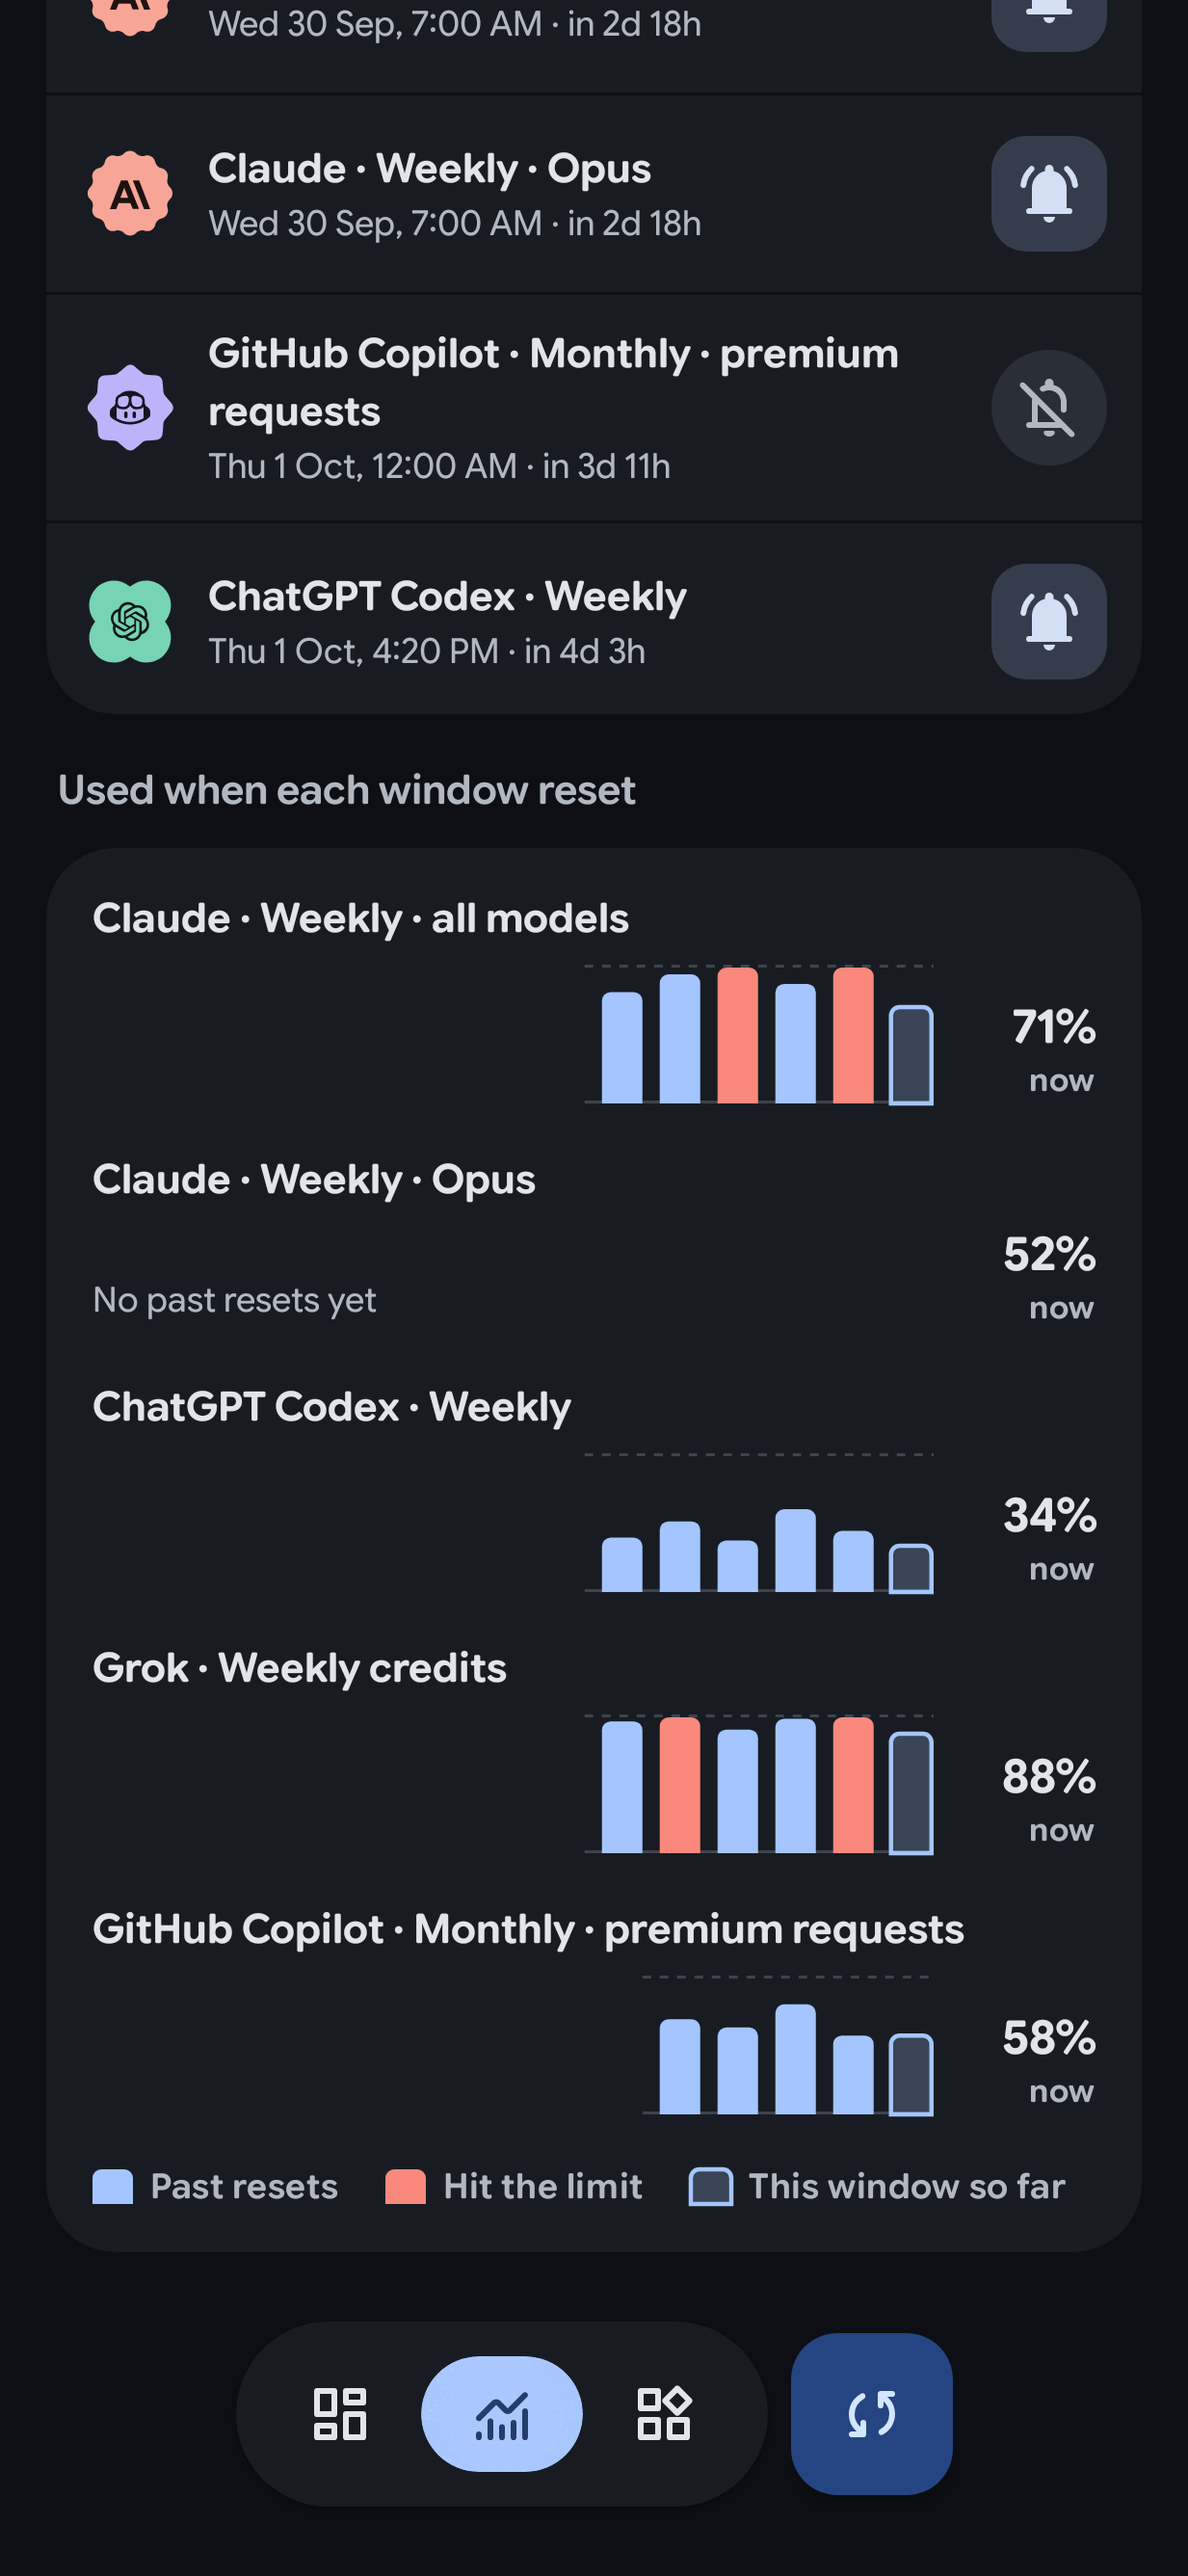
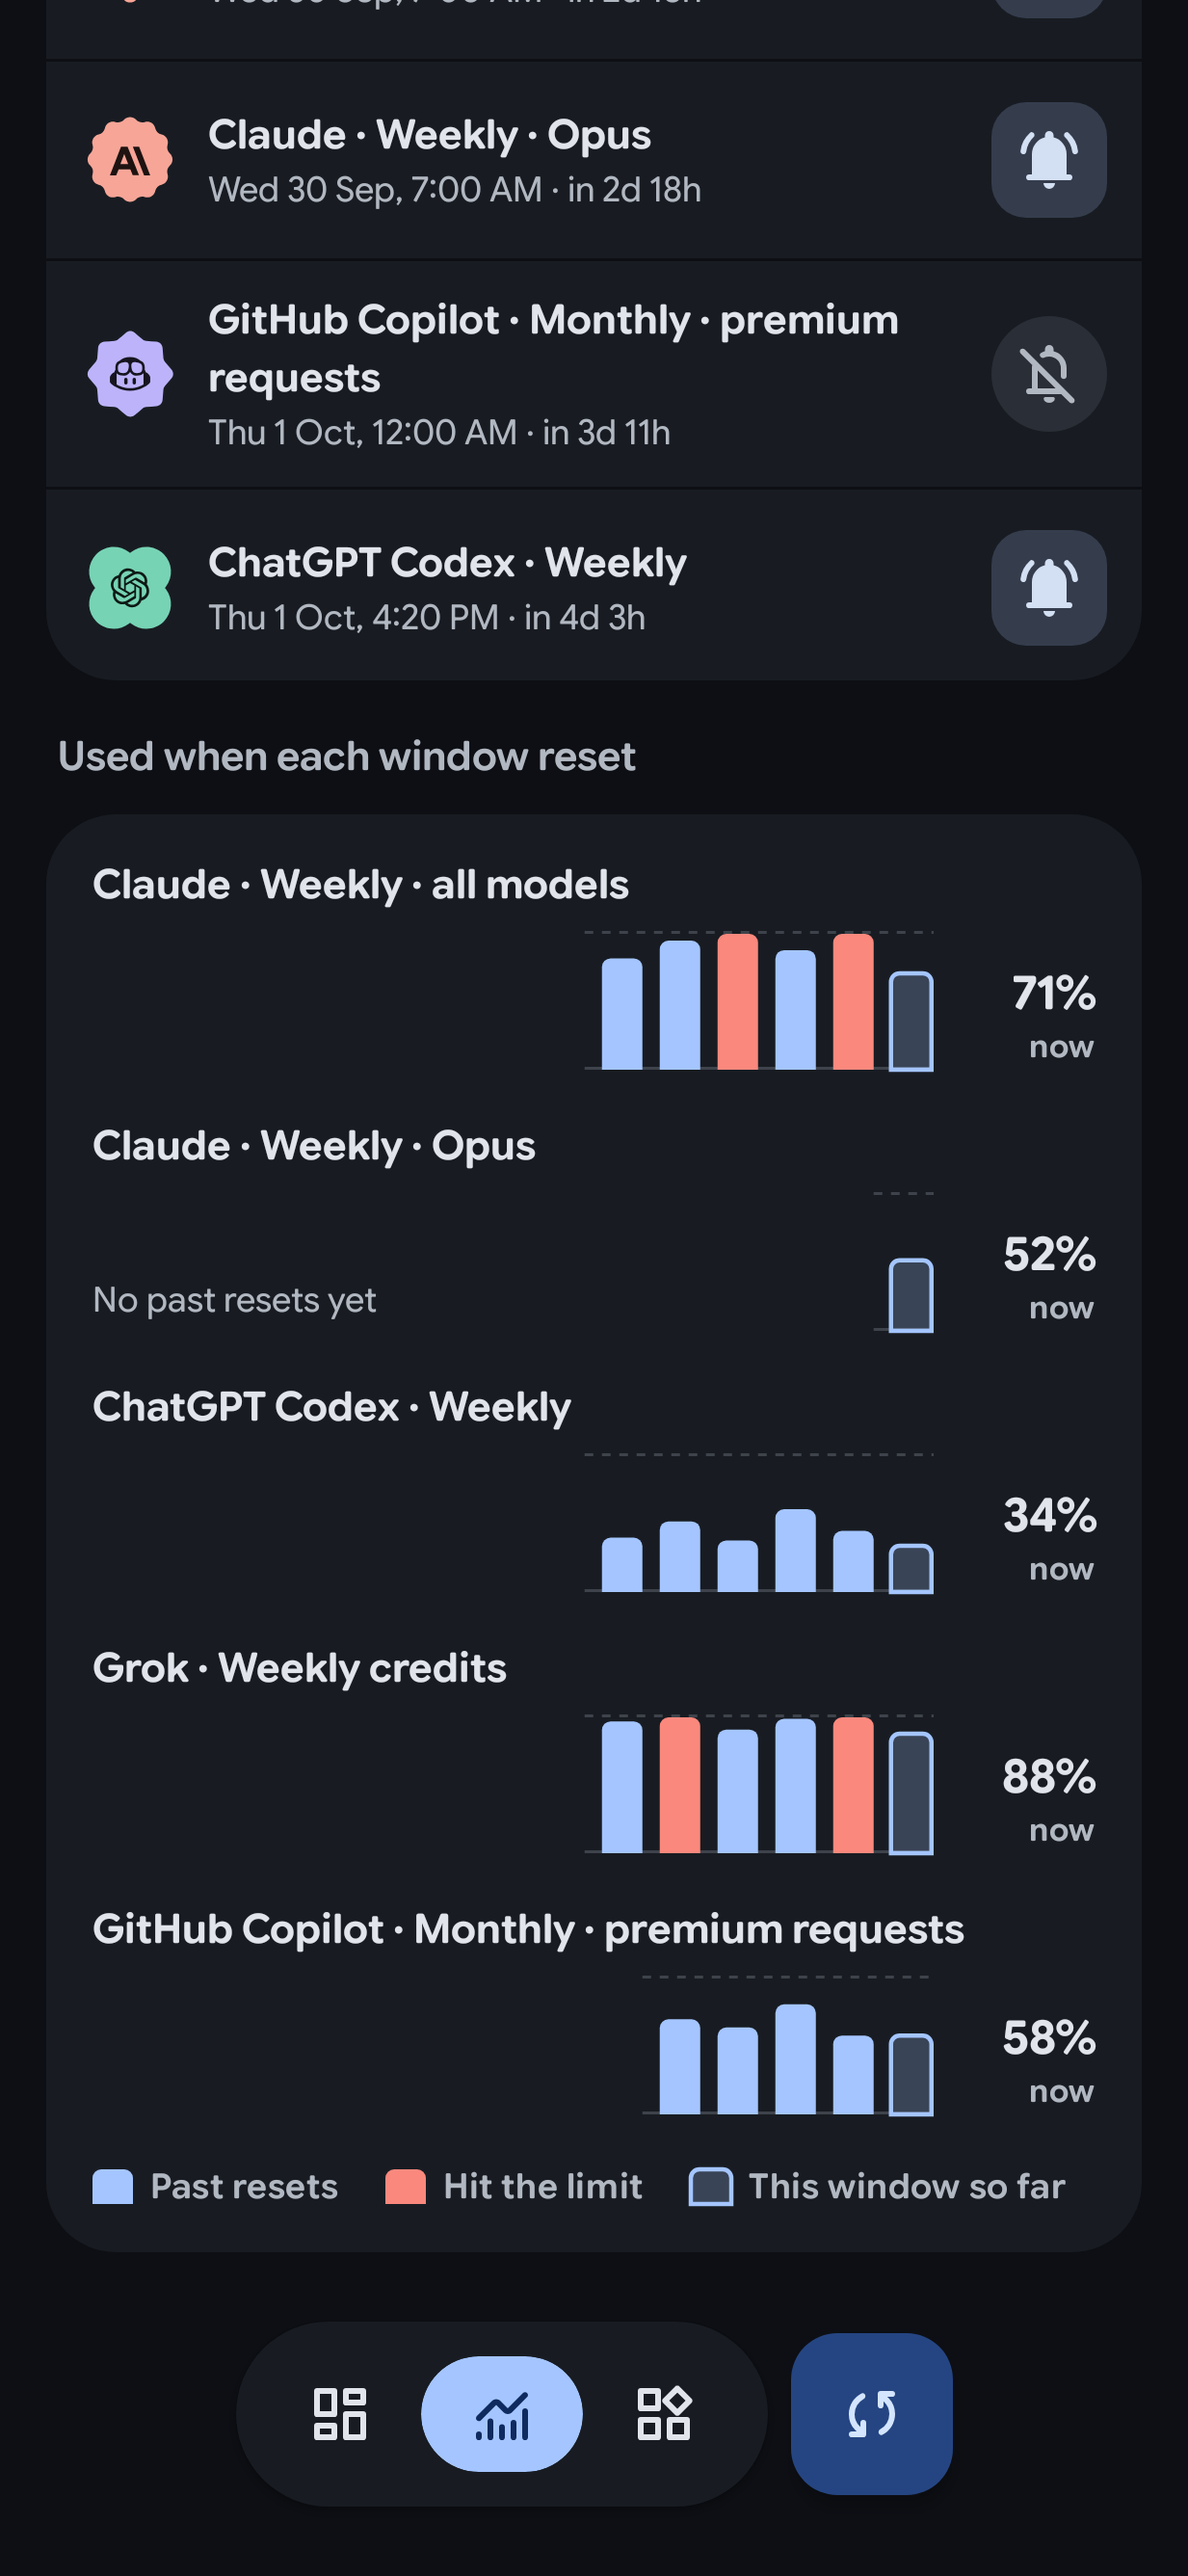
Draw the running window in the reset history even before its first reset
A window with no past resets showed only a note, so the chart hid how far
the current window had got. It now always draws the running column, with
the note beside it.

diff --git a/app/src/main/kotlin/dev/sebastiano/headroom/ui/resets/ResetHistoryChart.kt b/app/src/main/kotlin/dev/sebastiano/headroom/ui/resets/ResetHistoryChart.kt
@@ -3,6 +3,7 @@ package dev.sebastiano.headroom.ui.resets
 import androidx.compose.animation.core.Animatable
 import androidx.compose.foundation.Canvas
 import androidx.compose.foundation.layout.Arrangement
+import androidx.compose.foundation.layout.Box
 import androidx.compose.foundation.layout.BoxWithConstraints
 import androidx.compose.foundation.layout.Column
 import androidx.compose.foundation.layout.FlowRow
@@ -89,7 +90,7 @@ private fun HistoryRow(window: HistoryWindow, display: QuotaDisplay, wide: Boole
                 overflow = TextOverflow.Ellipsis,
                 modifier = Modifier.weight(1f).padding(end = 16.dp),
             )
-            Plot(window, display, TextAlign.End, Modifier.width(WidePlotWidth))
+            Plot(window, display, Modifier.width(WidePlotWidth))
             NowValue(now)
         }
     } else {
@@ -104,7 +105,7 @@ private fun HistoryRow(window: HistoryWindow, display: QuotaDisplay, wide: Boole
                 modifier = Modifier.fillMaxWidth().padding(top = 6.dp),
                 verticalAlignment = Alignment.Bottom,
             ) {
-                Plot(window, display, TextAlign.Start, Modifier.weight(1f))
+                Plot(window, display, Modifier.weight(1f))
                 NowValue(now)
             }
         }
@@ -135,29 +136,31 @@ private fun historyDescription(window: HistoryWindow, display: QuotaDisplay, now
         )
     }
 
-/** The columns, or a short note when the window has not reset since the app started recording. */
+/**
+ * The columns. The running window always gets its column, so a window that has not reset since the
+ * app started recording still shows how far it is, next to a short note.
+ */
 @Composable
-private fun Plot(
-    window: HistoryWindow,
-    display: QuotaDisplay,
-    emptyAlign: TextAlign,
-    modifier: Modifier = Modifier,
-) {
-    if (window.past.isEmpty()) {
-        Text(
-            text = stringResource(R.string.resets_history_empty),
-            style = MaterialTheme.typography.bodySmall,
-            color = MaterialTheme.colorScheme.onSurfaceVariant,
-            textAlign = emptyAlign,
-            modifier = modifier.padding(bottom = 2.dp),
-        )
-    } else {
+private fun Plot(window: HistoryWindow, display: QuotaDisplay, modifier: Modifier = Modifier) {
+    Box(modifier = modifier.height(PlotHeight)) {
         ResetColumns(
             past = window.past,
             current = window.current,
             display = display,
-            modifier = modifier.height(PlotHeight),
+            modifier = Modifier.matchParentSize(),
         )
+        if (window.past.isEmpty()) {
+            Text(
+                text = stringResource(R.string.resets_history_empty),
+                style = MaterialTheme.typography.bodySmall,
+                color = MaterialTheme.colorScheme.onSurfaceVariant,
+                maxLines = 1,
+                overflow = TextOverflow.Ellipsis,
+                modifier =
+                    Modifier.align(Alignment.BottomStart)
+                        .padding(end = ColumnPitch + GuideOverhang, bottom = 2.dp),
+            )
+        }
     }
 }
 
